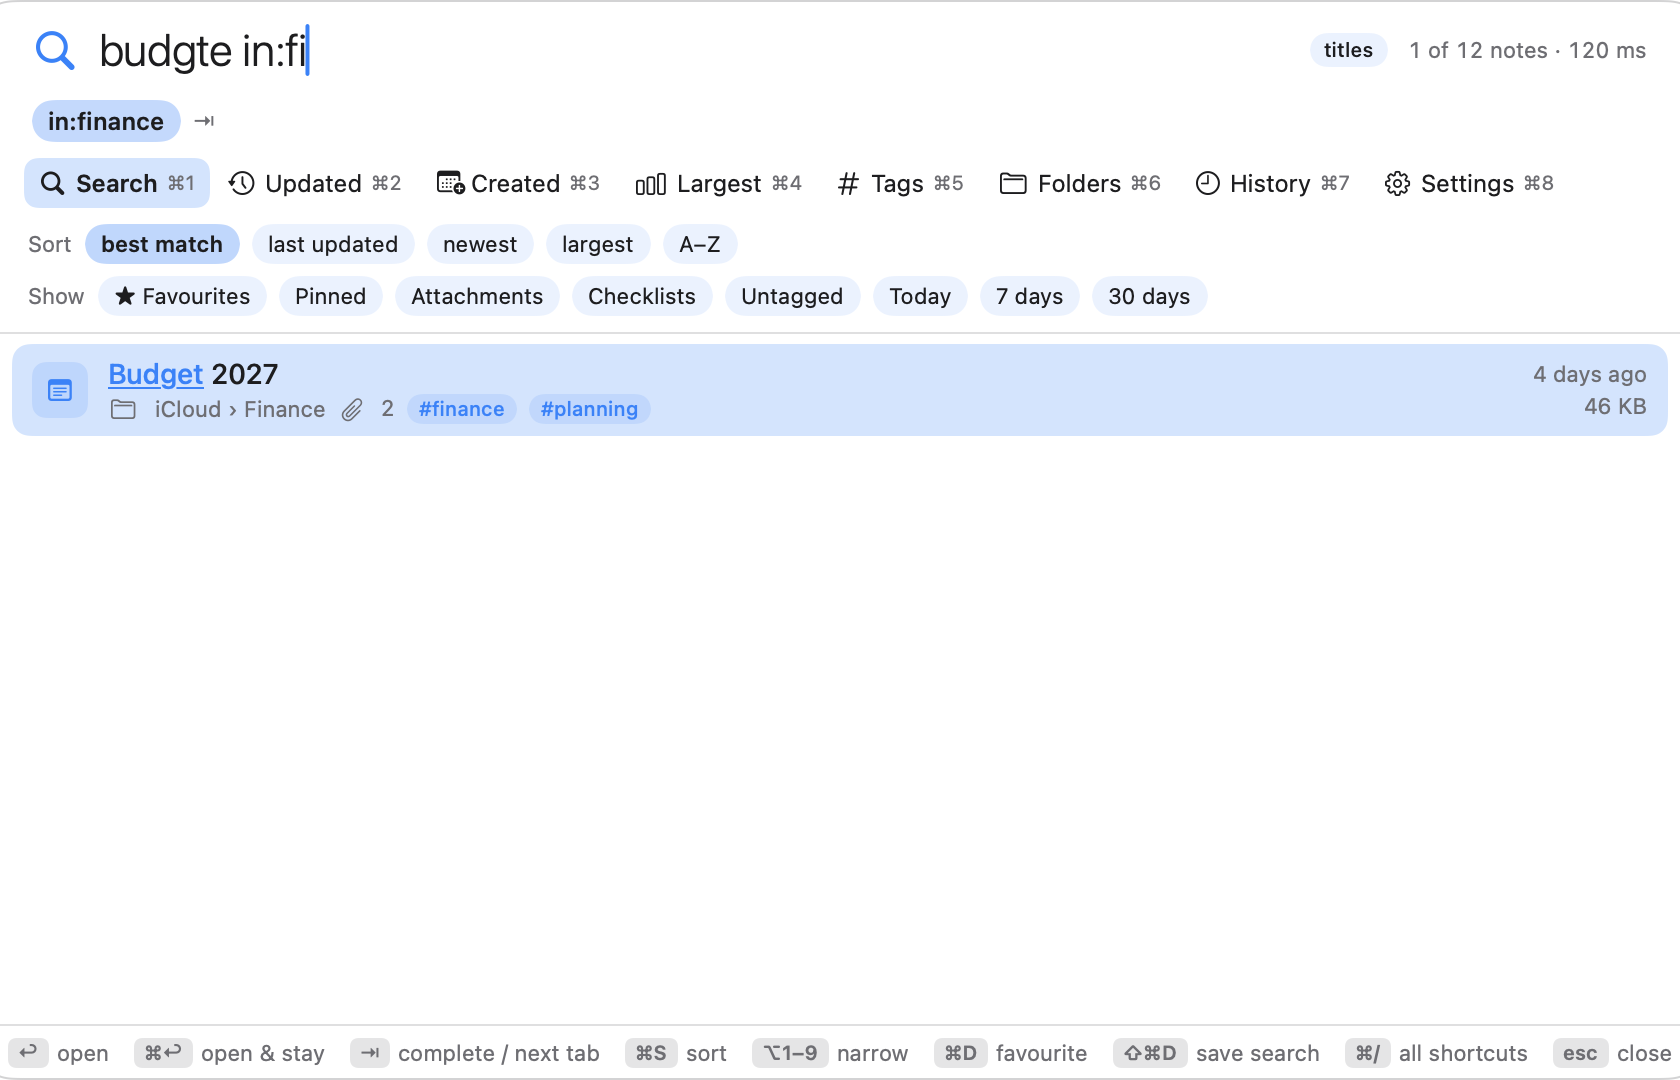
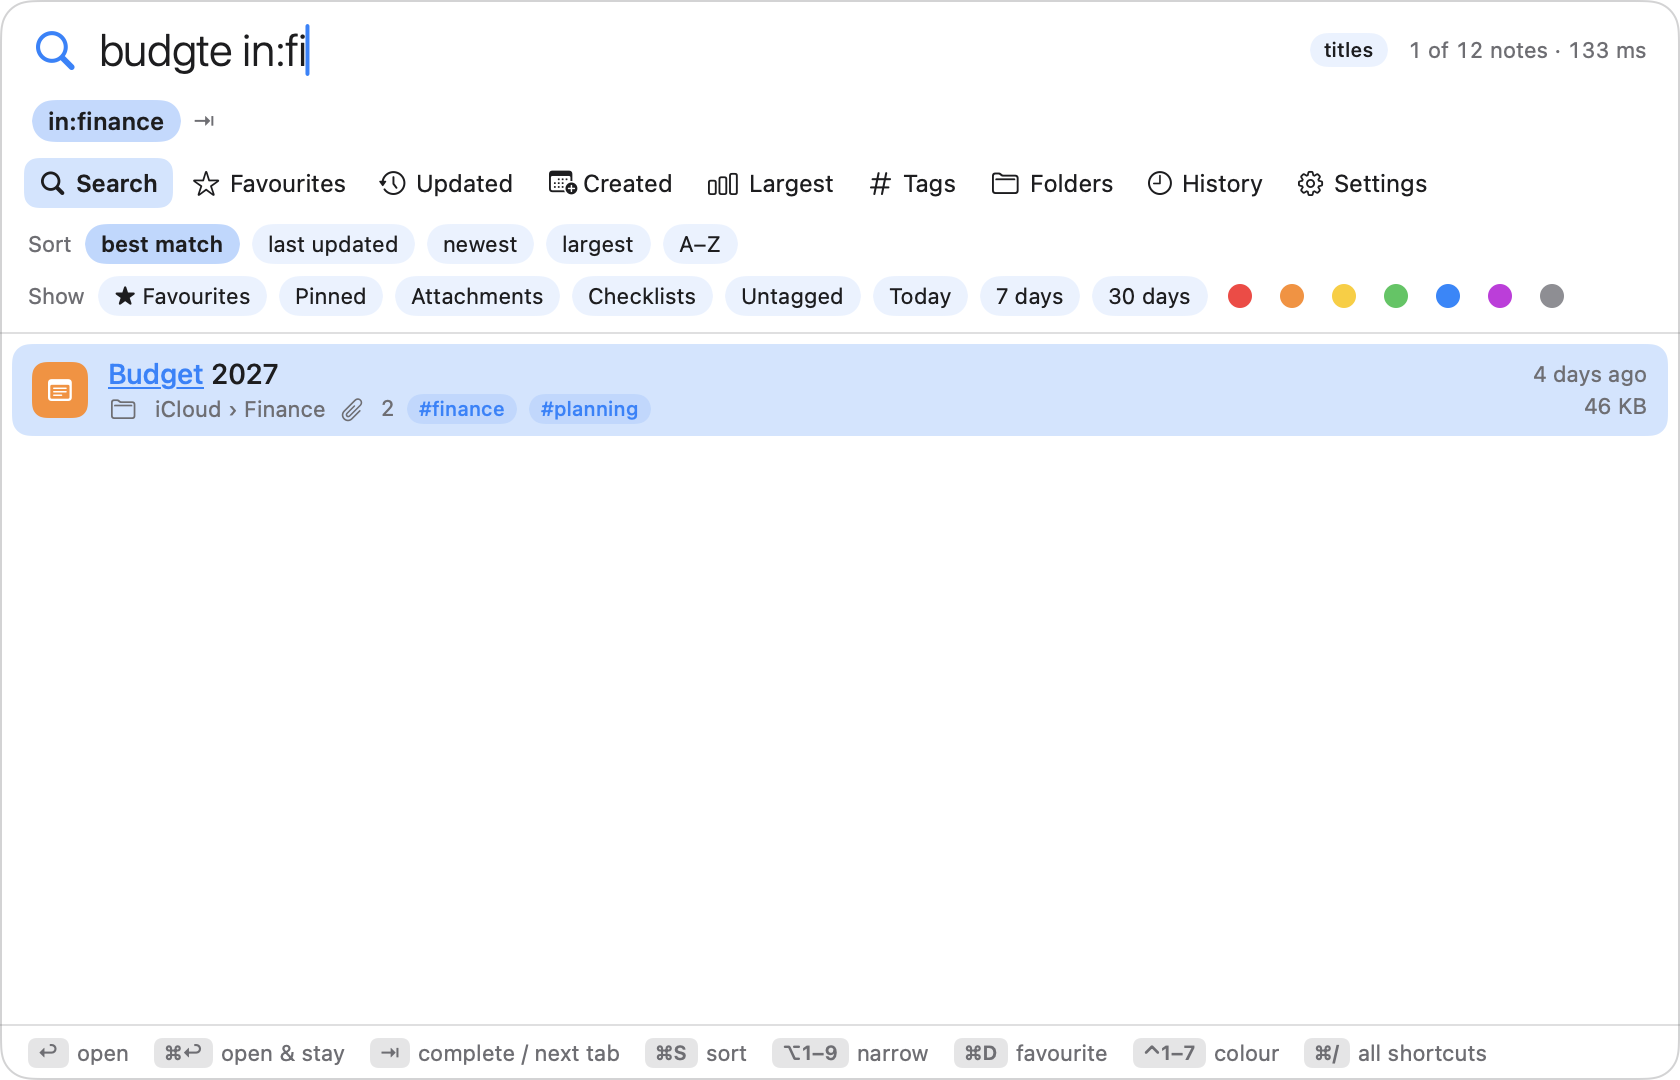
Document 1.12: Favourites tab and colour labels; refresh screenshots

diff --git a/docs/search-syntax.md b/docs/search-syntax.md
@@ -15,6 +15,7 @@ ignored, so `cafe` finds "Café".
 | `is:locked` | Locked notes | |
 | `is:checklist` | Notes that contain a checklist | |
 | `is:attachment` | Notes that have at least one attachment (`has:attachment` also works) *(1.1+)* | |
+| `color:name` | Notes you gave that colour; `color:any` / `color:none` for coloured / uncoloured notes *(1.12+)* | `color:orange` |
 | `is:favorite` | Notes you starred with **⌘D** (`is:fav` also works) *(1.4+)* | |
 | `is:untagged` | Notes with no hashtags *(1.7+)* | |
 | `is:shared` | Notes you share with other people, or that sit directly in a shared folder *(1.7+)* | |
@@ -101,10 +102,26 @@ In Settings, **Added to every search** takes ordinary search terms and applies t
 `-in:archive` hides everything in a folder called "Archive", and `-account:work` hides a whole account. Clear the
 field to see everything again. Hashtag counts on the Tags tab are not affected.
 
-## Favourites *(1.4+)*
+## Stars and colours
 
-Press **⌘D** on a note to star it; press again to remove the star. Starred notes show a star, are listed first
-when the search box is empty, and are found by `is:favorite`.
+You can mark notes in two ways. Both marks are kept by NoteSearch on this Mac only: they are **not** written to
+Apple Notes, so they do not appear in the Notes app or on your other devices.
+
+- **Star** *(1.4+)*: press **⌘D** on a note; press again to remove it. Starred notes show a star, are listed first
+  when the search box is empty, and are found by `is:favorite`.
+- **Colour** *(1.12+)*: press **⌃1 … ⌃7** for red, orange, yellow, green, blue, purple or grey. The note's icon
+  takes that colour. Press the same key again, or **⌃0**, to remove it. A note has one colour at a time.
+
+From 1.12 you can also right-click a note and choose **Star** or **Colour**.
+
+To find marked notes:
+
+- Open the **Favourites** tab (**⌘2**), which lists every starred or coloured note.
+- Click one of the seven colour dots at the end of the **Show** row.
+- Type `color:orange` (`colour:` also works). `color:any` finds every coloured note and `color:none` the rest.
+  Like any term it combines with others: `color:red #work`, or `color:orange|color:green`.
+
+![Notes marked orange or green](images/colours.png)
 
 ## Searching inside note text *(1.3+)*
 

diff --git a/docs/keyboard-shortcuts.md b/docs/keyboard-shortcuts.md
@@ -16,7 +16,7 @@
 | **⌘Return** | Open the selected note and keep the popup on screen |
 | **Tab** | Accept the first autocomplete suggestion. With no suggestions: go to the next tab |
 | **⇧Tab** | Go to the previous tab |
-| **⌘1 … ⌘8** | Search, Updated, Created, Largest, Tags, Folders, History, Settings *(before 1.8 there is no Folders tab, so History is ⌘6 and Settings ⌘7)* |
+| **⌘1 … ⌘9** | Search, Favourites, Updated, Created, Largest, Tags, Folders, History, Settings. The numbers are for 1.12; earlier versions have fewer tabs, so their numbers are lower. **⌘,** always opens Settings |
 | **⌘,** | Settings |
 | **⌘T** | Switch between matching titles only and titles plus note text *(1.3+)* |
 | **⌘S** | Change the sort order: best match, last updated, newest, largest, A–Z *(1.4+; A–Z from 1.8)* |
@@ -25,6 +25,8 @@
 | **⌘0** | Return the popup to its default size *(1.9+)* |
 | **⌘/** | Show or hide the list of all shortcuts *(1.8+)* |
 | **⌘D** | Star or unstar the selected note as a favourite *(1.4+)* |
+| **⌃1 … ⌃7** | Give the selected note a colour: red, orange, yellow, green, blue, purple, grey. The same key again removes it *(1.12+)* |
+| **⌃0** | Remove the selected note's colour *(1.12+)* |
 | **⇧⌘D** | Save the search you are typing. It appears starred at the top of the History tab *(1.7+)* |
 | **⌘N** | Create a new note in Notes, titled with whatever you have typed. macOS asks for permission the first time *(1.4+)* |
 | **⇧⌘C** | Copy a link to the selected note. Opening the link shows that note in Notes |
@@ -59,6 +61,10 @@ The usual text shortcuts (⌘A, ⌘C, ⌘V, ⌘X, ⌘Z) work in the search box.
 | **Return** | Run the highlighted search again |
 | **⌘D** | Save or unsave the highlighted search *(1.7+)* |
 | **⌘⌫** | Remove the highlighted search from the history |
+
+## With the mouse *(1.12+)*
+
+Right-click a note for a menu with **Star**, **Colour**, and the three copy actions.
 
 ## Menu-bar icon
 

diff --git a/docs/tabs-and-settings.md b/docs/tabs-and-settings.md
@@ -2,20 +2,31 @@
 
 ## Tabs
 
-Switch tabs with **⌘1 … ⌘8**, by clicking, or with **Tab** when no autocomplete suggestion is showing.
+Switch tabs with **⌘1 … ⌘9**, by clicking, or with **Tab** when no autocomplete suggestion is showing.
 
 | Tab | Shows |
 | --- | --- |
 | **Search** (⌘1) | Everything that matches, best match first (⌘S changes the order). Empty search: favourites, then recently opened notes, then recently updated |
-| **Updated** (⌘2) | The most recently updated notes |
-| **Created** (⌘3) | The most recently created notes |
-| **Largest** (⌘4) | The largest notes |
-| **Tags** (⌘5) | Every hashtag with the number of notes that use it |
-| **Folders** (⌘6) | Every folder with the number of notes in it *(1.8+)* |
-| **History** (⌘7) | Your past searches *(1.3+; ⌘6 before 1.8)* |
-| **Settings** (⌘8, or **⌘,**) | Options, below *(⌘7 before 1.8)* |
+| **Favourites** (⌘2) | Notes you starred or gave a colour *(1.12+)* |
+| **Updated** (⌘3) | The most recently updated notes |
+| **Created** (⌘4) | The most recently created notes |
+| **Largest** (⌘5) | The largest notes |
+| **Tags** (⌘6) | Every hashtag with the number of notes that use it |
+| **Folders** (⌘7) | Every folder with the number of notes in it *(1.8+)* |
+| **History** (⌘8) | Your past searches *(1.3+)* |
+| **Settings** (⌘9, or **⌘,**) | Options, below |
+
+These numbers are for version 1.12. Earlier versions have fewer tabs, so the numbers after the missing tabs are
+lower. From 1.12 the small ⌘-number hints on the tabs are shown only when the popup is wide enough.
 
 The popup always opens on the Search tab with an empty search box.
+
+### Favourites *(1.12+)*
+
+![Favourites tab](images/favourites.png)
+
+Starred notes first, then notes with a colour, grouped in colour order. Type to filter the list. See
+[Stars and colours](search-syntax.md#stars-and-colours) for how to mark notes.
 
 ### Updated, Created and Largest
 

diff --git a/README.md b/README.md
@@ -34,6 +34,7 @@ Step-by-step instructions with pictures are in [Getting started](docs/getting-st
 - **Sort, Show and Narrow buttons** above the results, a **Folders tab**, and a list of every shortcut on
   ⌘/ *(1.8+)*.
 - **Six optional wallpapers** and a popup you can resize from the keyboard *(1.9+)*.
+- **Favourites tab and colour labels** for notes, kept in NoteSearch only *(1.12+)*.
 - **Private**: by default only titles and metadata are read. Note text is read only if you turn that on, is kept
   in memory only, and is never saved, and is shown only if you ask for the matching line. The only network use is an optional daily
   check for a newer version, which sends nothing about you or your notes.
@@ -50,6 +51,7 @@ Step-by-step instructions with pictures are in [Getting started](docs/getting-st
 | ![Notes changed in the last week](docs/images/dates.png) <br> Date filter: `updated:7d` | ![The matching line of text](docs/images/snippet.png) <br> Optional: the line of text that matched |
 | ![Search history](docs/images/history.png) <br> History of past searches | ![Tags tab](docs/images/tags.png) <br> Every hashtag with its note count (Midnight theme) |
 | ![Settings](docs/images/settings.png) <br> Settings (Notes Yellow theme, Sand wallpaper) | ![Sort, Show and Narrow buttons](docs/images/buttons.png) <br> One-click sorting, filters and narrowing |
+| ![Favourites tab](docs/images/favourites.png) <br> Favourites: starred and colour-labelled notes | ![Colour filter](docs/images/colours.png) <br> Notes marked orange or green |
 
 ## Documentation
 

diff --git a/docs/privacy.md b/docs/privacy.md
@@ -57,6 +57,7 @@ Only its own preferences, on your Mac:
   IDs, not titles or text.
 - Your last 50 searches, for the History tab *(1.3+)*. You can turn this off or clear it in Settings.
 - Your saved searches, and the terms in **Added to every search** *(1.7+)*.
+- The colour you gave each note, by internal ID *(1.12+)*.
 - Identifiers of the notes you starred as favourites *(1.4+)*. Internal IDs again, not titles or text.
 - The latest version number seen by the update check, and when it last ran *(1.4+)*.
 
